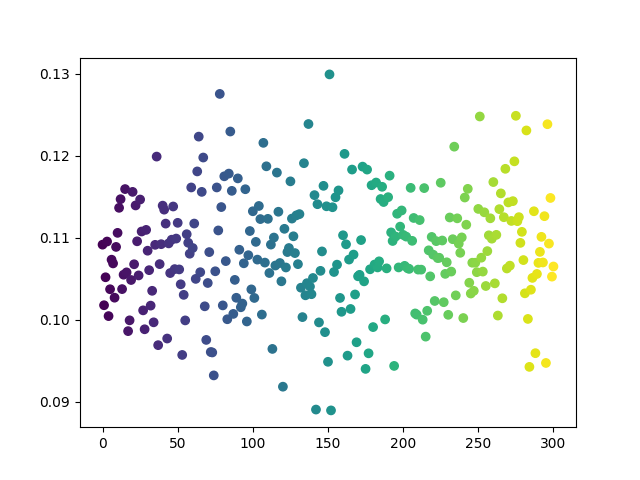
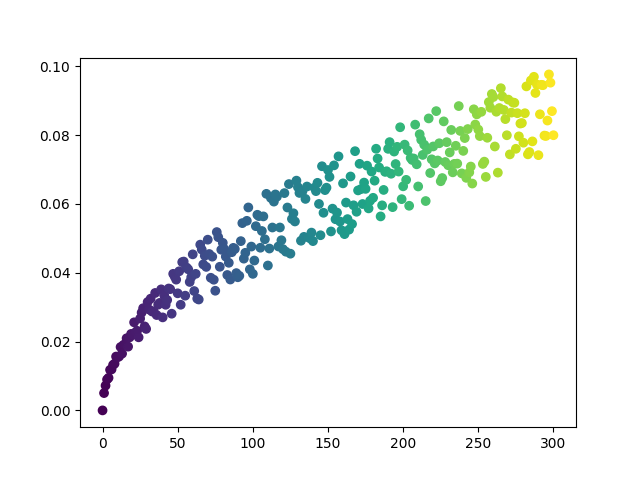
aiming factor now works as intended

diff --git a/GameLogic.py b/GameLogic.py
@@ -1,13 +1,13 @@
 # TODO: constructors for::
-#       [] figure out biasing
-#       [] treat the possibility of overshooting
+#       [] add a check for maximal possible throw without overhsooting
+#       [] implement updating the ubiform distribution according to biasing
+#           and max throw checks
+
 import os
 import numpy as np
 import pandas as pd
-import matplotlib.pyplot as plt
 import scipy.optimize as opt
 import copy
-import math
 import CurvesAndStats
 
 # load real world data for pre-analysis
@@ -221,9 +221,7 @@ class MetropolisHastings(NormalDistribution, UniformDistribution):
         calculating the factor basend on score and returning said factor
         to be used by Player.run()
         """
-        # so far this only works as a random noise variable (see factor_scatter.png)
-        u = UniformDistribution({"max": 0.25, "min": 0})
-        factor = (math.sqrt(current_score) / 10) * np.random.choice(np.linspace(u.get_u(1), 0)) * math.erf(current_score / 100)
+        factor = CurvesAndStats.Gaussian.erf_with_random_factor(current_score)
         return factor
 
 
@@ -234,7 +232,6 @@ class Player(MetropolisHastings, NormalDistribution, UniformDistribution, Distri
         self.parameters = parameters
         self.decision_uniform = params_uniform
         self.player_name = initial
-        # slap a curve fit equation here, late
         self._fx = self.generate_fx(self.player_name)
         self._normsdist = NormalDistribution(parameters)
 

diff --git a/CurvesAndStats.py b/CurvesAndStats.py
@@ -1,17 +1,25 @@
 """A set of static method for scipy curve fittings"""
 
 import numpy as np
+import math
 
 
 class Gaussian:
 
     @staticmethod
     def normal_curve(x, mu, sigma):
-        f_x = 1 / (np.sqrt(2 * np.pi * (sigma ** 2))) * (np.exp(-((x - mu) ** 2 / (2 * sigma ** 2))))
+        f_x = 1 / (np.sqrt(2 * np.pi * (sigma ** 2))) * \
+            (np.exp(-((x - mu) ** 2 / (2 * sigma ** 2))))
         return f_x
 
-
+    @staticmethod
+    def erf_with_random_factor(x):
+        erf_x = (math.sqrt(x) / 10) + np.random.choice((-1, 1), 1) * \
+            np.random.choice(np.linspace(0.25, 0)) * math.erf(x / 100)
+        return erf_x / 20
 # in case I'd need a polynomial fit
+
+
 class Polynomial:
     """
     f(x) = ax^5 + bx^4 + cx^3 + dx^2 + ex

diff --git a/main.py b/main.py
@@ -26,16 +26,5 @@ if __name__ == "__main__":
     Player1 = GameLogic.Player(params, params_uniform, "A")
     # for i in range(50):
     #     print(Player1.run(50, 301))
-    bin = []
-    for _ in range(0, 301):
-
-        container = []
-
-        for i in range(200):
-            container.append(Player1.biasing(301))
-
-        bin.append(np.average(container))
-
-    t = np.arange(301)
-    plt.scatter([i for i in range(len(bin))], bin, c=t)
-    plt.savefig(f"{os.getcwd()}/factor_scatter_with_erf.png")
+    print(Player1.biasing(301))
+    print(Player1.biasing(1))
